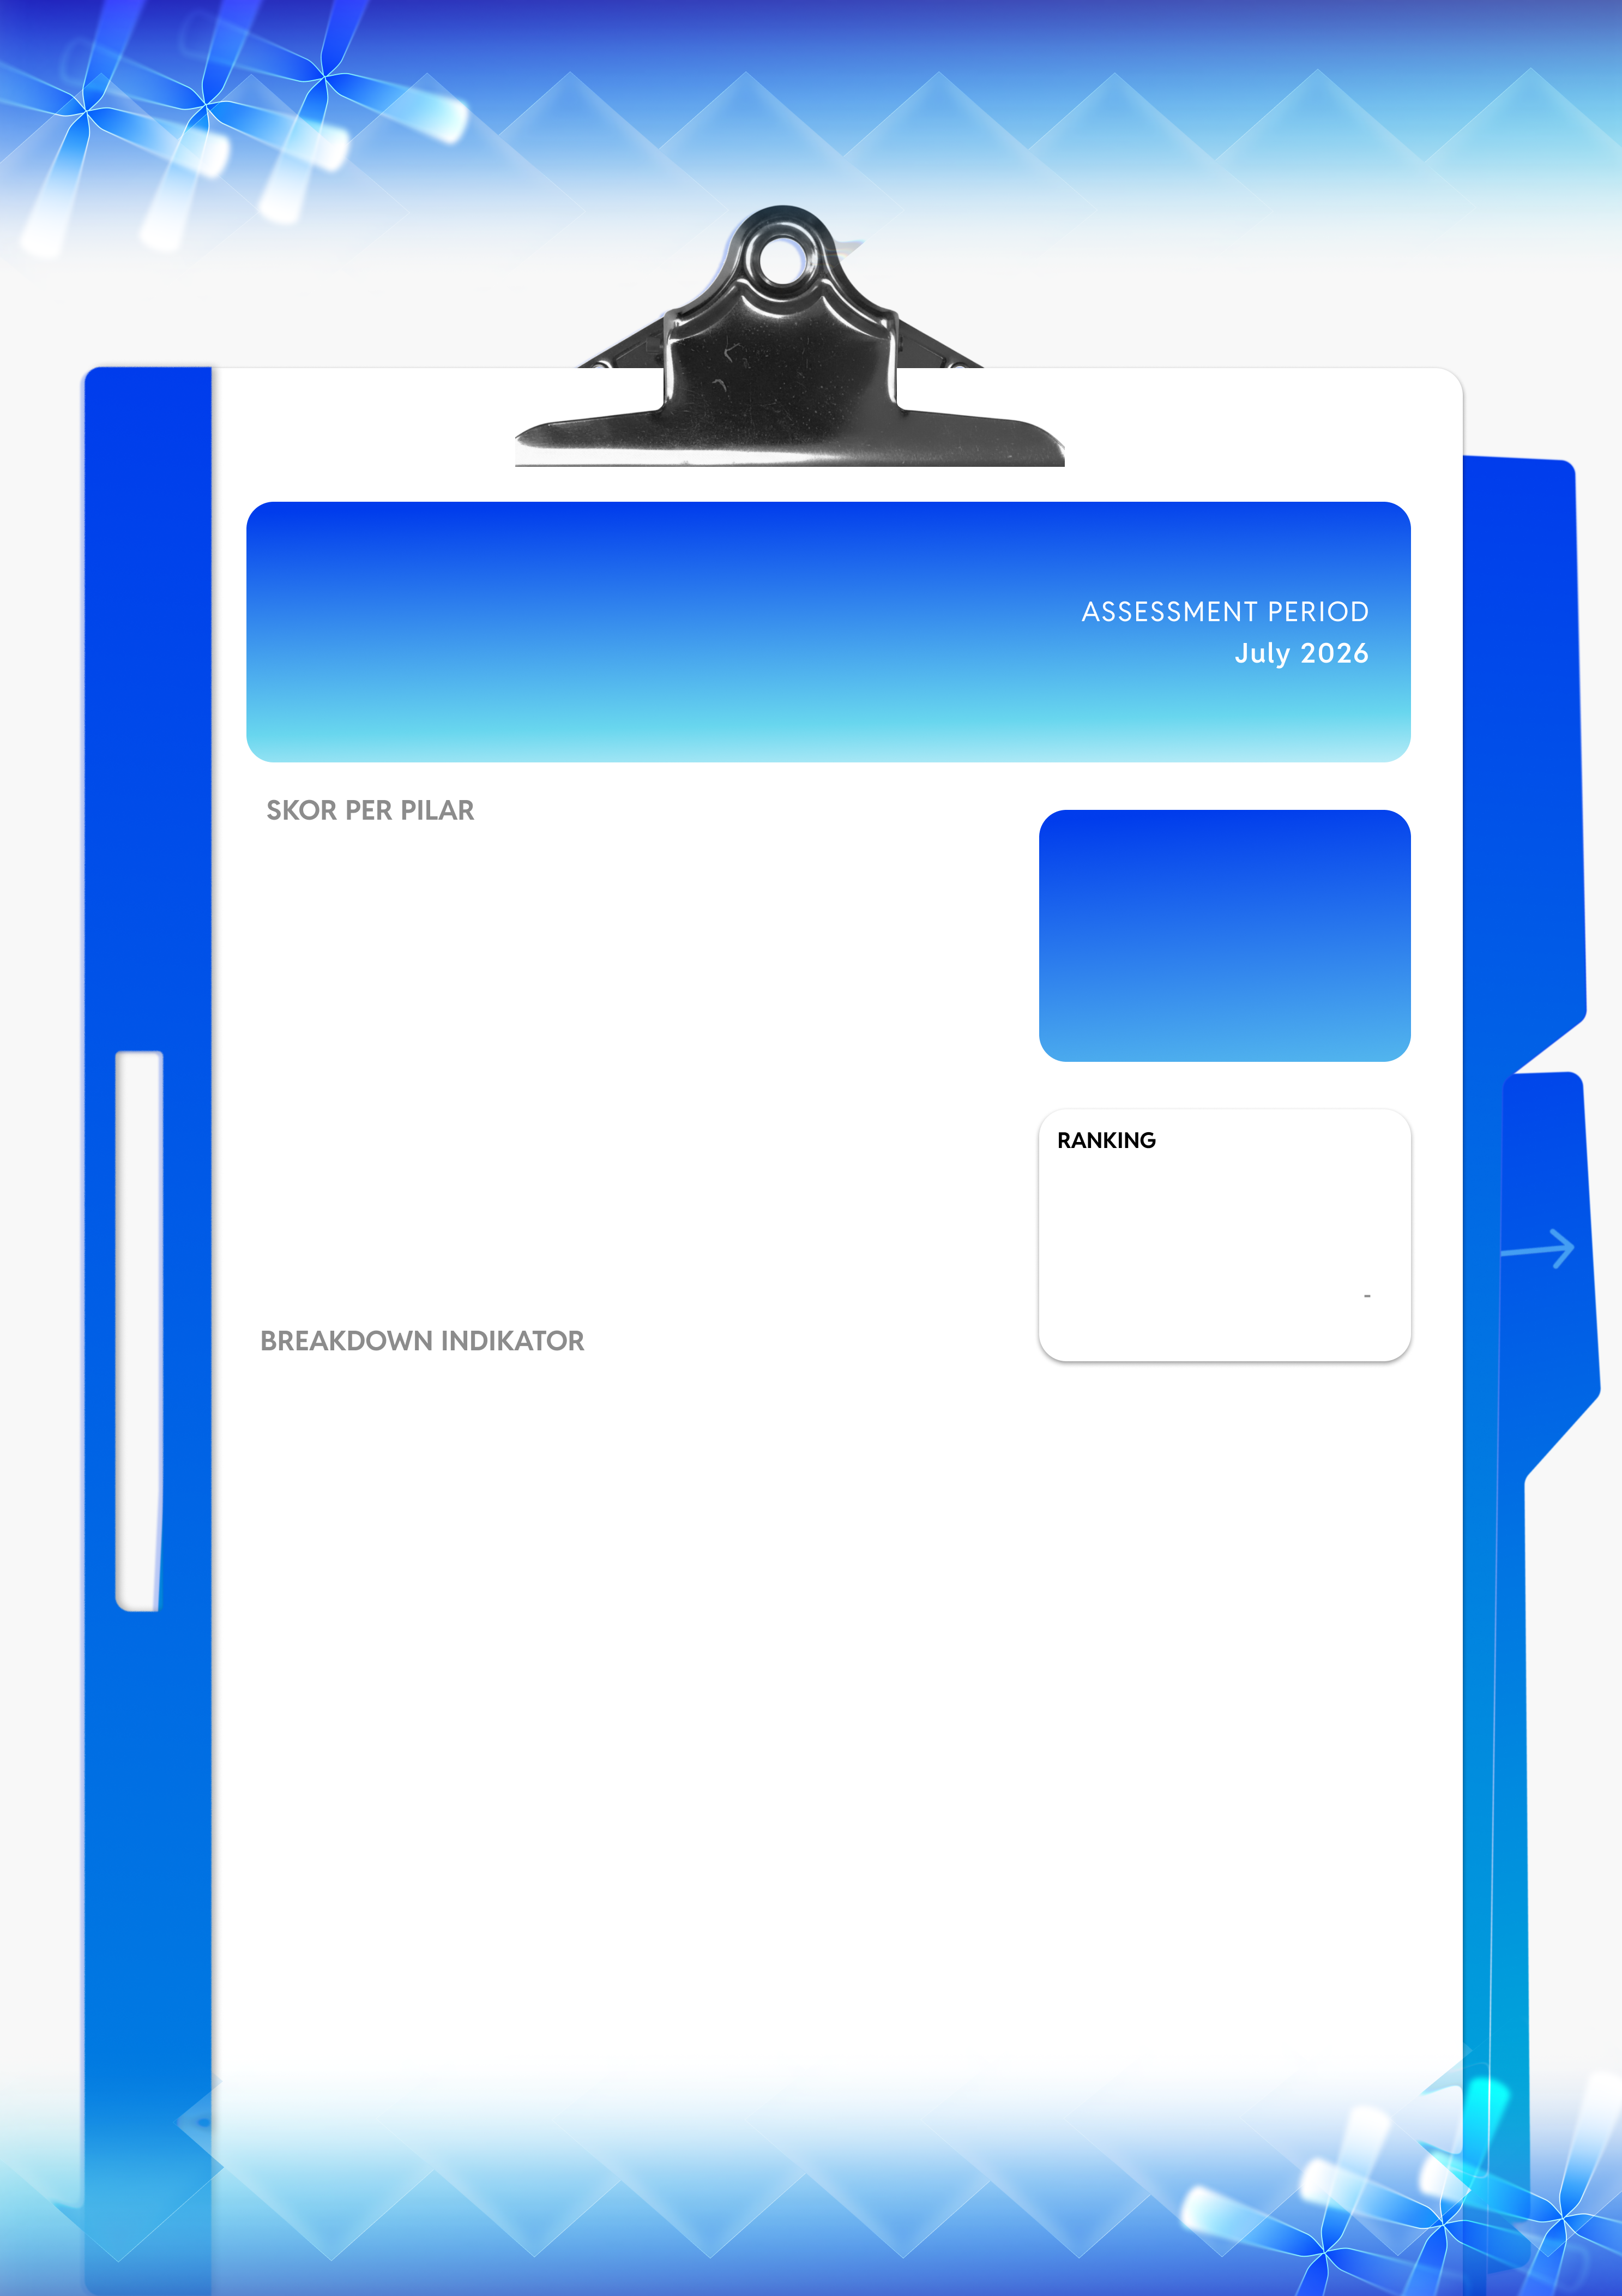
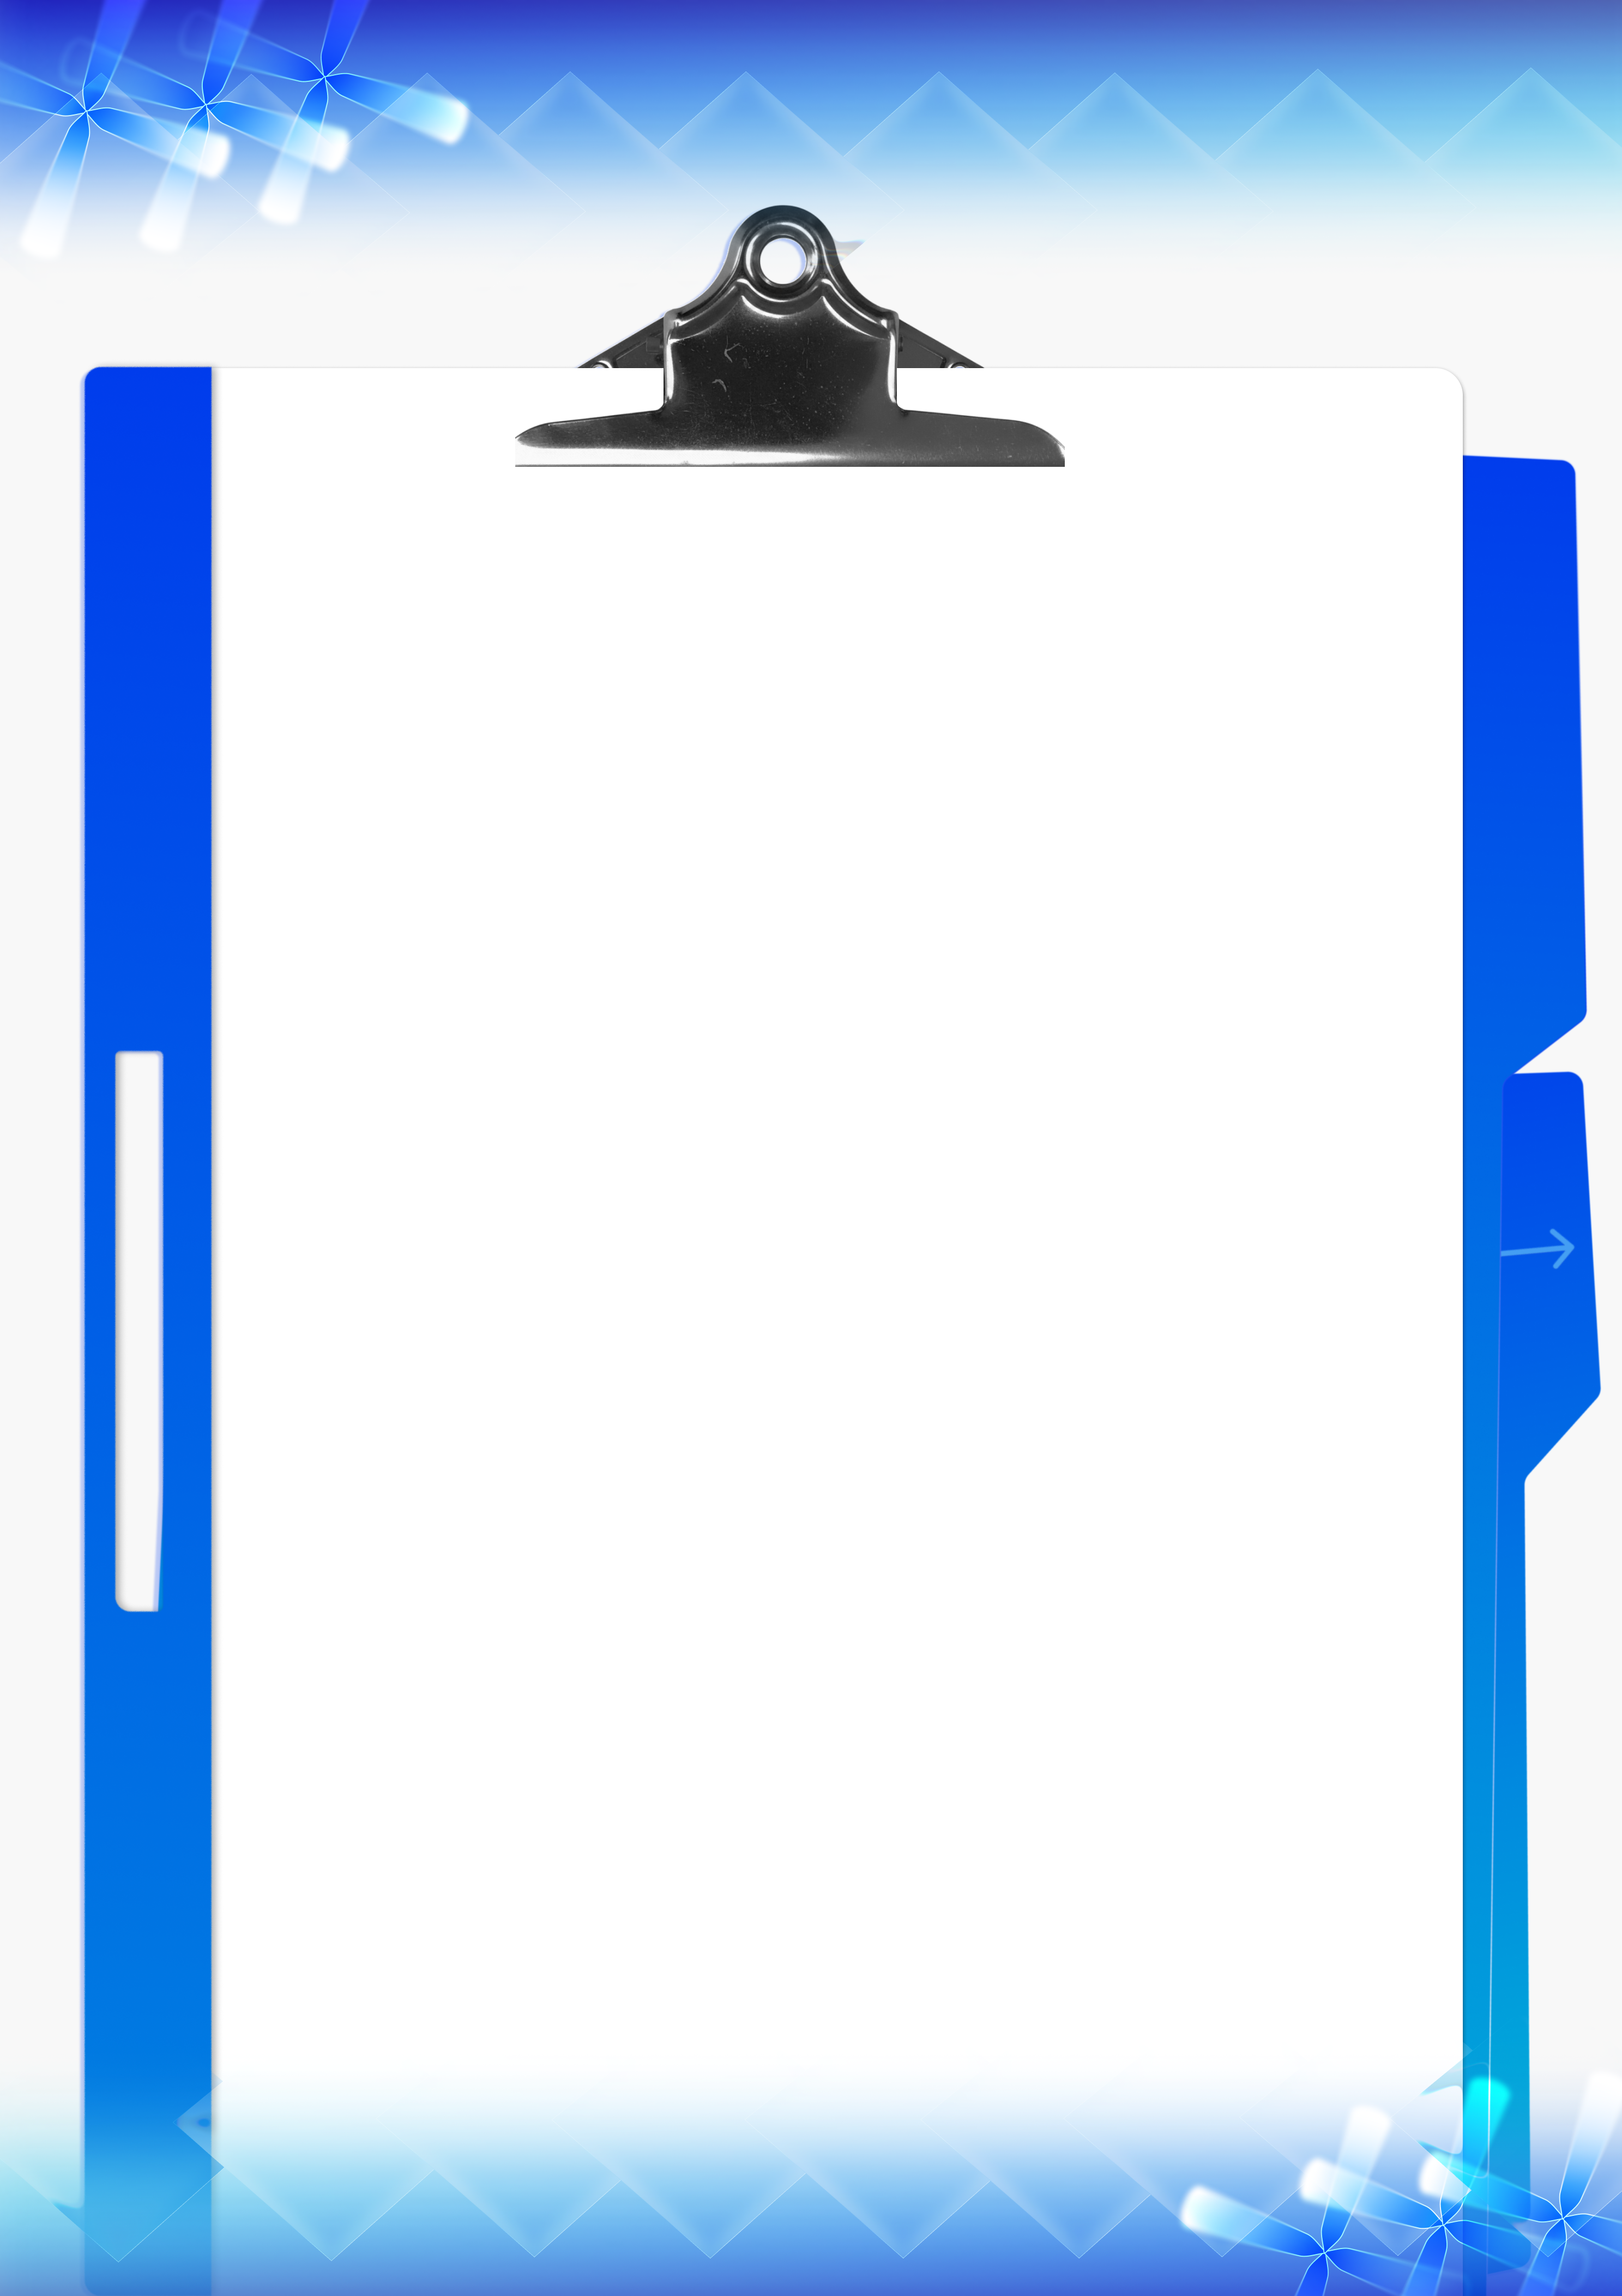
Mario : Add yang bisa di add

Changed region(s): [[0.1546, 0.2178, 0.8968, 0.4667], [0.1546, 0.5601, 0.3402, 0.5912]]

diff --git a/app.js b/app.js
@@ -550,4 +550,173 @@ function updateReportCover(memberId) {
     if (nameEl) nameEl.textContent = member.name;
     if (infoEl) infoEl.textContent = `${member.nrp} - ${posText}`;
     if (deptEl) deptEl.textContent = `Departemen ${deptFullname}`;
+
+    // Update performance page
+    updateReportPerformance(memberId, member, posText, deptFullname);
+}
+
+async function updateReportPerformance(memberId, member, posText, deptFullname) {
+    const perfInfo = document.getElementById('perf-info-section');
+    if (!perfInfo) return;
+
+    if (!memberId) {
+        perfInfo.innerHTML = '';
+        return;
+    }
+
+    try {
+        const res = await fetch(`${API_URL}/assessments/${memberId}`);
+        const assessment = await res.json();
+
+        let p1Score = 0, p2Score = 0, p3Score = 0, p4Score = 0;
+        let totalScore = 0;
+        let band = 'Pending';
+        if (assessment) {
+            p1Score = [assessment.p1_1, assessment.p1_2, assessment.p1_3, assessment.p1_4].reduce((a, b) => a + b, 0) / 16 * 22;
+            p2Score = [assessment.p2_1, assessment.p2_2, assessment.p2_3, assessment.p2_4].reduce((a, b) => a + b, 0) / 16 * 25;
+            p3Score = [assessment.p3_1, assessment.p3_2, assessment.p3_3, assessment.p3_4].reduce((a, b) => a + b, 0) / 16 * 23;
+            p4Score = [assessment.p4_1, assessment.p4_2, assessment.p4_3, assessment.p4_4].reduce((a, b) => a + b, 0) / 16 * 30;
+            totalScore = (p1Score + p2Score + p3Score + p4Score).toFixed(1);
+            band = assessment.band || member.band;
+        }
+
+        // Calculate Rankings
+        const scoredMembers = MEMBERS_DATA.filter(m => m.score !== null).sort((a, b) => parseFloat(b.score) - parseFloat(a.score));
+        let cabinetRank = '-';
+        if (assessment) {
+            cabinetRank = scoredMembers.findIndex(m => String(m.id) === String(member.id)) + 1;
+        }
+
+        const deptMembers = MEMBERS_DATA.filter(m => m.dept === member.dept);
+        const scoredDeptMembers = deptMembers.filter(m => m.score !== null).sort((a, b) => parseFloat(b.score) - parseFloat(a.score));
+        let deptRank = '-';
+        if (assessment) {
+            deptRank = scoredDeptMembers.findIndex(m => String(m.id) === String(member.id)) + 1;
+        }
+
+        let deptAvg = '-';
+        if (scoredDeptMembers.length > 0) {
+            const sum = scoredDeptMembers.reduce((acc, m) => acc + parseFloat(m.score), 0);
+            deptAvg = (sum / scoredDeptMembers.length).toFixed(1);
+        }
+
+        perfInfo.innerHTML = `
+            <div style="display:flex; flex-direction:column; width:100%; height:100%; box-sizing:border-box; transform: scale(0.9); transform-origin: top center;">
+                
+                <!-- Top Banner -->
+                <div style="background: linear-gradient(135deg, #3b60e4, #92d9ec); border-radius:16px; padding:30px 40px; display:flex; align-items:center; margin-bottom:30px;">
+                    <div style="width:90px; height:90px; border-radius:50%; background:#d1d5db; display:flex; align-items:center; justify-content:center; overflow:hidden; box-shadow: 0 0 0 3px rgba(255,255,255,0.3); margin-right:24px; flex-shrink:0;">
+                        ${member.id == 1 ? '<img src="Logo PILAR AKSI.png" style="width:100%; height:100%; object-fit:cover;">' : `<div style="font-size:32px; font-weight:800; color:#3b60e4;">${getInitials(member.name)}</div>`}
+                    </div>
+                    <div style="flex:1; display:flex; flex-direction:column;">
+                        <div style="font-family:'Plus Jakarta Sans',sans-serif; font-size:24px; font-weight:800; color:white; margin-bottom: 2px;">
+                            ${member.name}
+                        </div>
+                        <div style="font-size:14px; color:rgba(255,255,255,0.9); letter-spacing:0.5px; margin-bottom: 4px;">
+                            NRP. ${member.nrp}
+                        </div>
+                        <div style="font-size:14px; color:white; font-weight:600;">
+                            Departemen ${member.dept} &bull; ${posText}
+                        </div>
+                    </div>
+                    <div style="text-align:right;">
+                        <div style="font-size:12px; text-transform:uppercase; letter-spacing:1px; color:rgba(255,255,255,0.8); margin-bottom:4px;">
+                            Assessment Period
+                        </div>
+                        <div style="font-size:16px; font-weight:700; color:white;">
+                            November 2026
+                        </div>
+                    </div>
+                </div>
+
+                <!-- Below Banner -->
+                <div style="display:flex; flex-direction:row; gap:40px;">
+                    <!-- Left Side: Pilar -->
+                    <div style="flex:1; display:flex; flex-direction:column;">
+                        <div style="font-size:14px; font-weight:800; color:#8ba0b8; letter-spacing:0.5px; margin-bottom:24px;">
+                            SKOR PER PILAR
+                        </div>
+                        <div style="display:flex; flex-direction:column; gap:20px;">
+                            <!-- Pilar 1 -->
+                            <div>
+                                <div style="font-size:12px; font-weight:700; color:#4A5C7A; margin-bottom:8px;">P1 &bull; Adaptif &amp; Proaktif</div>
+                                <div style="display:flex; align-items:center; gap:12px;">
+                                    <div style="flex:1; height:8px; background:#e0e7ee; border-radius:4px; overflow:hidden;">
+                                        <div style="height:100%; width:${(Math.min(p1Score / 22 * 100, 100))}%; background:#3b60e4; border-radius:4px;"></div>
+                                    </div>
+                                    <div style="font-size:13px; font-weight:800; color:#1a3a5c; min-width:46px; text-align:right;">${p1Score > 0 ? p1Score.toFixed(1) : '-'}<span style="font-size:10px; color:#8ba0b8; font-weight:600;">/22</span></div>
+                                </div>
+                            </div>
+                            <!-- Pilar 2 -->
+                            <div>
+                                <div style="font-size:12px; font-weight:700; color:#4A5C7A; margin-bottom:8px;">P2 &bull; Berdampak &amp; Bernilai</div>
+                                <div style="display:flex; align-items:center; gap:12px;">
+                                    <div style="flex:1; height:8px; background:#e0e7ee; border-radius:4px; overflow:hidden;">
+                                        <div style="height:100%; width:${(Math.min(p2Score / 25 * 100, 100))}%; background:#eab308; border-radius:4px;"></div>
+                                    </div>
+                                    <div style="font-size:13px; font-weight:800; color:#1a3a5c; min-width:46px; text-align:right;">${p2Score > 0 ? p2Score.toFixed(1) : '-'}<span style="font-size:10px; color:#8ba0b8; font-weight:600;">/25</span></div>
+                                </div>
+                            </div>
+                            <!-- Pilar 3 -->
+                            <div>
+                                <div style="font-size:12px; font-weight:700; color:#4A5C7A; margin-bottom:8px;">P3 &bull; Humanis &amp; Kekeluargaan</div>
+                                <div style="display:flex; align-items:center; gap:12px;">
+                                    <div style="flex:1; height:8px; background:#e0e7ee; border-radius:4px; overflow:hidden;">
+                                        <div style="height:100%; width:${(Math.min(p3Score / 23 * 100, 100))}%; background:#22c55e; border-radius:4px;"></div>
+                                    </div>
+                                    <div style="font-size:13px; font-weight:800; color:#1a3a5c; min-width:46px; text-align:right;">${p3Score > 0 ? p3Score.toFixed(1) : '-'}<span style="font-size:10px; color:#8ba0b8; font-weight:600;">/23</span></div>
+                                </div>
+                            </div>
+                            <!-- Pilar 4 -->
+                            <div>
+                                <div style="font-size:12px; font-weight:700; color:#4A5C7A; margin-bottom:8px;">P4 &bull; Optimalisasi &amp; Profesionalisme</div>
+                                <div style="display:flex; align-items:center; gap:12px;">
+                                    <div style="flex:1; height:8px; background:#e0e7ee; border-radius:4px; overflow:hidden;">
+                                        <div style="height:100%; width:${(Math.min(p4Score / 30 * 100, 100))}%; background:#a855f7; border-radius:4px;"></div>
+                                    </div>
+                                    <div style="font-size:13px; font-weight:800; color:#1a3a5c; min-width:46px; text-align:right;">${p4Score > 0 ? p4Score.toFixed(1) : '-'}<span style="font-size:10px; color:#8ba0b8; font-weight:600;">/30</span></div>
+                                </div>
+                            </div>
+                        </div>
+                        <div style="font-size:14px; font-weight:800; color:#8ba0b8; letter-spacing:0.5px; margin-top:40px; margin-bottom:12px;">
+                            BREAKDOWN INDIKATOR
+                        </div>
+                    </div>
+
+                    <!-- Right Side: Score & Ranking -->
+                    <div style="width:280px; display:flex; flex-direction:column; gap:24px;">
+                        <!-- Final Score Box -->
+                        <div style="background: linear-gradient(135deg, #3b60e4, #5E9EE8); box-shadow: 0 6px 18px rgba(59,96,228,0.25); padding: 24px; border-radius: 16px; display:flex; flex-direction:column; align-items:center;">
+                            <div style="font-size:12px;text-transform:uppercase;letter-spacing:1px;color:rgba(255,255,255,.9);margin-bottom:12px;font-weight:600;">
+                                Final Score</div>
+                            <div style="color:#FFF8D6; font-size:64px; font-weight:800; line-height:1; font-family:'Plus Jakarta Sans',sans-serif; margin-bottom: 8px;">${totalScore > 0 ? totalScore : '-'}</div>
+                            <div style="color:rgba(255,255,255,.9); font-size:12px; margin-bottom: 12px; font-weight:500;">DARI 100</div>
+                            <div style="color:white; font-size:15px; font-weight:700; display:flex; align-items:center; gap:6px;">✦ ${band}</div>
+                        </div>
+
+                        <!-- Ranking Box -->
+                        <div style="padding:22px; border-radius:16px; border:1px solid #e0e7ee; box-shadow:0 6px 18px rgba(0,0,0,0.04); background:white;">
+                            <div style="font-size:12px;text-transform:uppercase;letter-spacing:1px;color:#1a3a5c;font-weight:800;margin-bottom:16px;">
+                                Ranking</div>
+                            <div style="padding:10px 0; border-bottom:1px solid #e0e7ee; display:flex; justify-content:space-between; align-items:center;">
+                                <div style="font-size:12px; color:var(--text-muted); font-weight:500;">Dept. Ranking</div>
+                                <div style="color:#3b60e4; font-weight:800; font-size:15px;">#${deptRank} <span style="font-size:11px;color:var(--text-muted);font-weight:600;">/${deptMembers.length}</span></div>
+                            </div>
+                            <div style="padding:10px 0; border-bottom:1px solid #e0e7ee; display:flex; justify-content:space-between; align-items:center;">
+                                <div style="font-size:12px; color:var(--text-muted); font-weight:500;">Cabinet Ranking</div>
+                                <div style="color:#1a3a5c; font-weight:800; font-size:15px;">#${cabinetRank} <span style="font-size:11px;color:var(--text-muted);font-weight:600;">/${MEMBERS_DATA.length}</span></div>
+                            </div>
+                            <div style="padding-top:12px; display:flex; justify-content:space-between; align-items:center;">
+                                <div style="font-size:12px; color:var(--text-muted); font-weight:500;">Dept. Avg</div>
+                                <div style="font-size:14px; color:#1a3a5c; font-weight:700;">${deptAvg}</div>
+                            </div>
+                        </div>
+                    </div>
+                </div>
+
+            </div>
+        `;
+    } catch (err) {
+        console.error("Error fetching assessment", err);
+    }
 }

diff --git a/backend/index.js b/backend/index.js
@@ -39,10 +39,21 @@ app.get('/api/departments', async (req, res) => {
     }
 });
 
+// ── GET: Ambil Assessment Member ───────────────────────
+app.get('/api/assessments/:memberId', async (req, res) => {
+    try {
+        const [rows] = await pool.query('SELECT * FROM assessments WHERE member_id = ? ORDER BY id DESC LIMIT 1', [req.params.memberId]);
+        if (rows.length === 0) return res.json(null);
+        res.json(rows[0]);
+    } catch (err) {
+        res.status(500).json({ error: err.message });
+    }
+});
+
 // ── POST: Simpan Nilai Raport (Assessment) ─────────────
 app.post('/api/assessments', async (req, res) => {
     const { memberId, score, band, ratings, notes } = req.body;
-    
+
     if (!memberId || score === undefined || !ratings || ratings.length !== 16) {
         return res.status(400).json({ error: 'Data tidak lengkap. Pastikan 16 indikator sudah diisi.' });
     }
@@ -60,11 +71,11 @@ app.post('/api/assessments', async (req, res) => {
             (member_id, p1_1, p1_2, p1_3, p1_4, p2_1, p2_2, p2_3, p2_4, p3_1, p3_2, p3_3, p3_4, p4_1, p4_2, p4_3, p4_4, total_score, band, appreciation, suggestions, personal_message) 
             VALUES (?, ?, ?, ?, ?, ?, ?, ?, ?, ?, ?, ?, ?, ?, ?, ?, ?, ?, ?, ?, ?, ?)`,
             [
-                memberId, 
-                ...ratings, 
-                score, band, 
-                notes?.appreciation || '', 
-                notes?.suggestions || '', 
+                memberId,
+                ...ratings,
+                score, band,
+                notes?.appreciation || '',
+                notes?.suggestions || '',
                 notes?.message || ''
             ]
         );

diff --git a/rapottt pilar.html b/rapottt pilar.html
@@ -561,9 +561,9 @@
                             <img src="Input Score & Overall.png" alt="Performance Background" class="cover-image">
                         </div>
 
-                        <!-- Tempat untuk konten skor & data dinamis (di-overlay di atas gambar) -->
+                        <!-- Konten skor & data dinamis -->
                         <div class="perf-info-section" id="perf-info-section"
-                            style="position:absolute; inset:0; z-index:2; padding:32px;">
+                            style="position:absolute; top:0; left:0; width:100%; height:100%; z-index:2; padding: 250px 140px 40px 140px; overflow-y:auto; box-sizing:border-box;">
                             <!-- Data akan di-generate via JS / di-custom user -->
                         </div>
                     </div>